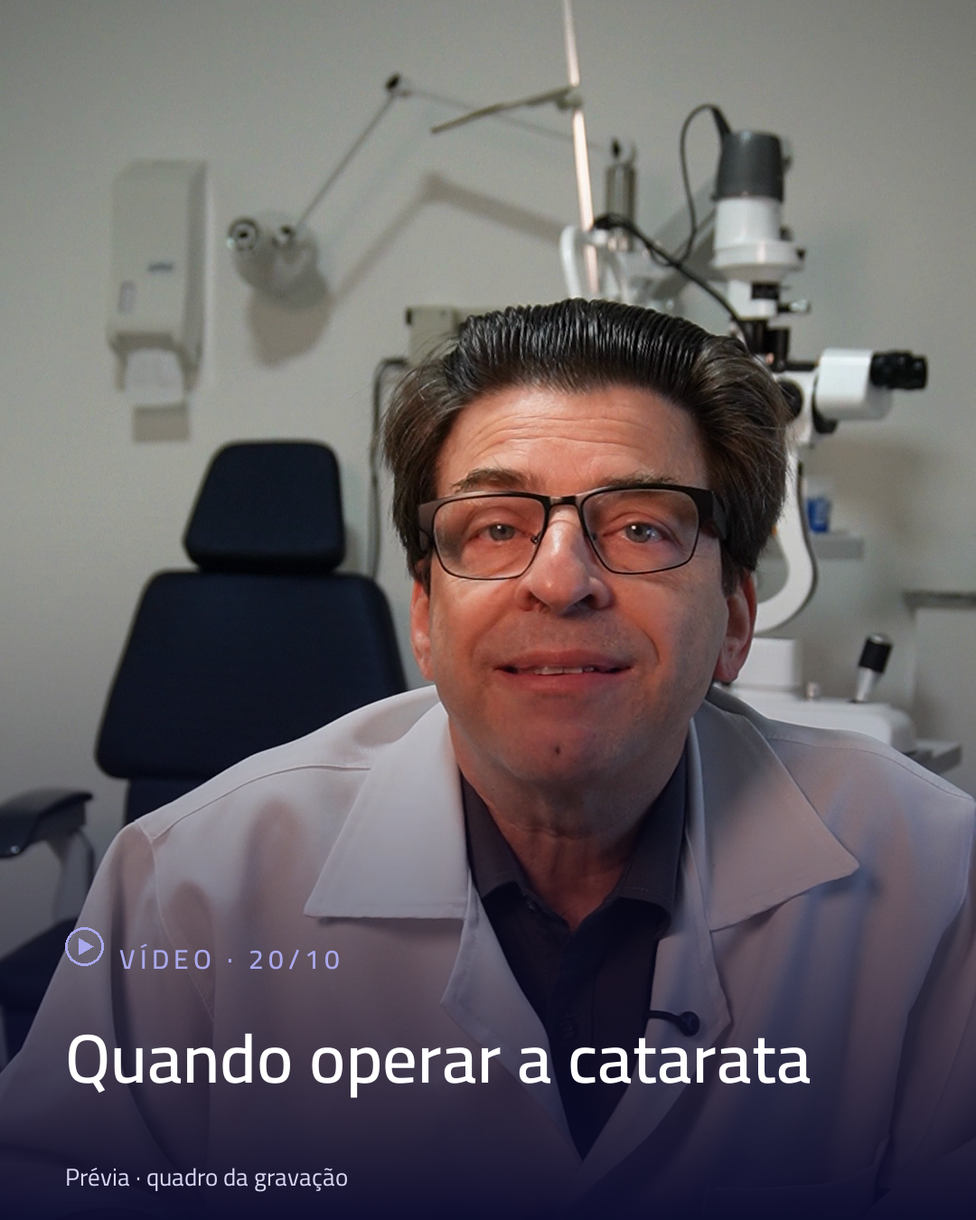
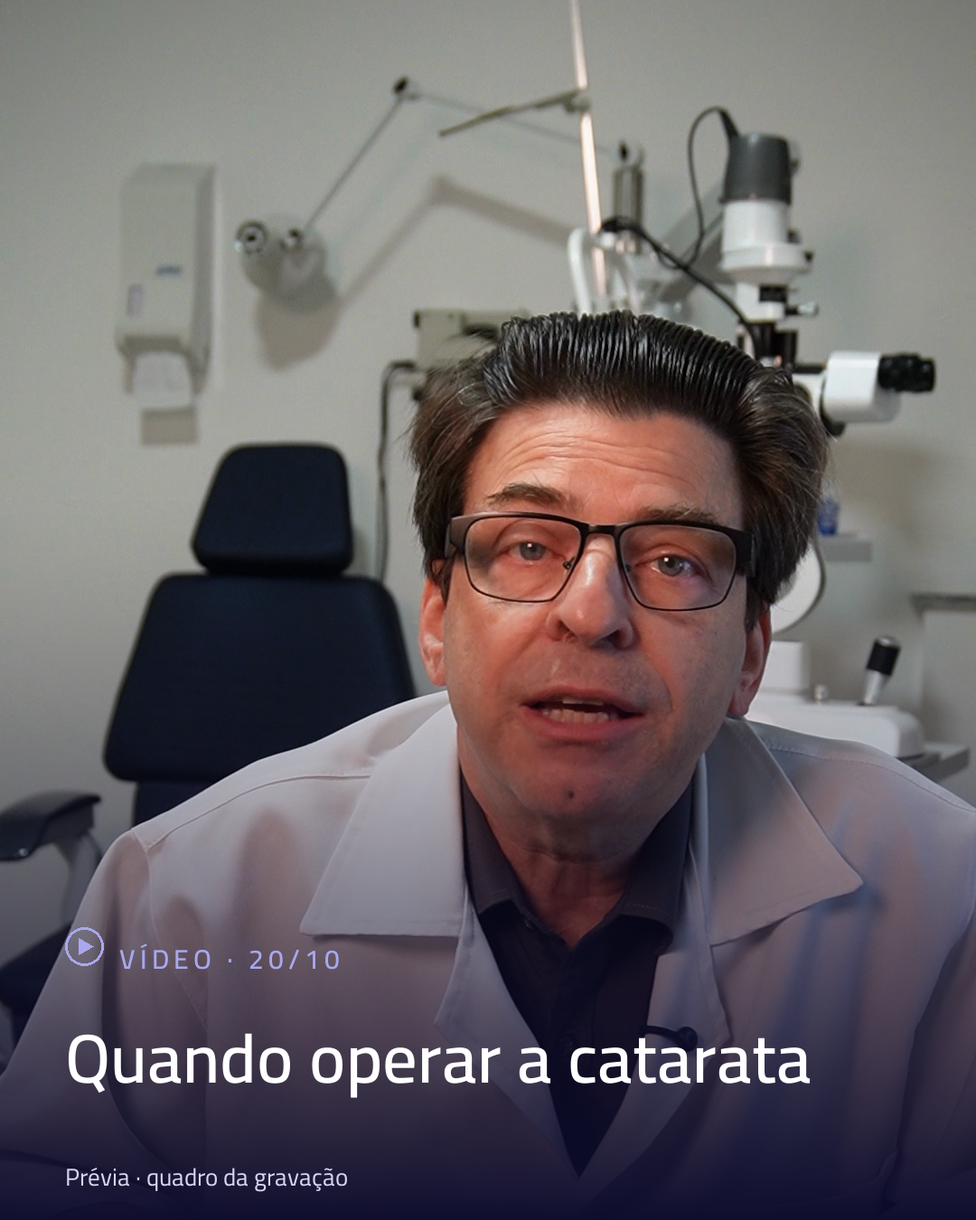
Calendário remontado com as 7 gravações: 11 peças até 12/11
As quatro gravações que faltavam fecharam a série de catarata em cinco temas:
o que é, quando operar, como é feita a cirurgia, pós-operatório e tipos de
lente. Dois temas tinham dois takes; ficou registrado qual usar e por quê.

O calendário vai de 15/10 a 12/11, alternando vídeo e card, com o convite de
fechamento por último. Cada vídeo ganhou prévia a partir de um quadro da
gravação.

Duas ressalvas de compliance ficaram anotadas na peça: a promessa de resultado
a cortar no vídeo da cirurgia e o fecho obrigatório no de lentes.

diff --git a/calendario-editorial/outubro-2026/index.html b/calendario-editorial/outubro-2026/index.html
@@ -5,13 +5,13 @@
 <a class="skip" href="#conteudos">Ir para conteúdos</a>
 <nav class="nav" aria-label="Navegação principal"><a href="#hero" aria-label="Oftalmos Day Hospital, início"><img src="assets/logo-oftalmos.png" alt="Oftalmos Day Hospital"></a><div class="nav-links" id="menu"><a href="#feed">Feed</a><a href="#estrategia">Linha editorial</a><a href="#calendario">Calendário</a><a href="#conteudos">Conteúdos</a></div><span class="nav-tag">Planejamento · 2026</span><button class="nav-burger" aria-label="Abrir menu" aria-expanded="false" aria-controls="menu"><span></span><span></span><span></span></button></nav>
 <main>
-<section id="hero"><div class="container hero-grid"><div class="hero-copy"><span class="eyebrow">PLANEJAMENTO EDITORIAL</span><h1>O cuidado<br>com os olhos,<br><em>explicado.</em></h1><p class="sub">O conteúdo do Oftalmos Day Hospital em outubro e novembro: a série de catarata gravada com o Dr. João, os cards de especialidades e prevenção, e o convite de fechamento.</p><div class="period"><span class="period-line"></span>09 OUT — 05 NOV 2026</div><div class="meta"><div class="meta-item"><span>09</span><span>Conteúdos no calendário</span></div><div class="meta-item"><span>05</span><span>Cards · todos com arte</span></div><div class="meta-item"><span>04</span><span>Vídeos · 1 pronto</span></div></div><a class="cta-final" href="#calendario">Explorar o calendário <span aria-hidden="true">↗</span></a></div><div class="hero-art"><div class="orb" aria-hidden="true"></div><button class="hero-preview" data-lightbox="I1" aria-label="Ampliar arte sobre as especialidades do hospital"><img src="assets/2026-10-16_I1_final.png" alt="Card: Diferentes especialidades para cuidar da sua visão, em um só lugar." width="1080" height="1350"></button><span class="art-caption"><span class="status-dot"></span>16/10 · Especialidades · arte final</span></div></div></section>
-<div class="month-bar"><div class="container month-inner"><span class="month-label">PLANEJAMENTO 2026</span><div class="month-options" role="group" aria-label="Escolher período"><button data-month="10" aria-pressed="false">Outubro <span>07</span></button><button data-month="11" aria-pressed="false">Novembro <span>02</span></button><button class="active" data-month="all" aria-pressed="true">Todo o período <span>09</span></button></div></div></div>
+<section id="hero"><div class="container hero-grid"><div class="hero-copy"><span class="eyebrow">PLANEJAMENTO EDITORIAL</span><h1>O cuidado<br>com os olhos,<br><em>explicado.</em></h1><p class="sub">O conteúdo do Oftalmos Day Hospital em outubro e novembro: a série de catarata gravada com o Dr. João, os cards de especialidades e prevenção, e o convite de fechamento.</p><div class="period"><span class="period-line"></span>09 OUT — 12 NOV 2026</div><div class="meta"><div class="meta-item"><span>11</span><span>Conteúdos no calendário</span></div><div class="meta-item"><span>05</span><span>Cards · todos com arte</span></div><div class="meta-item"><span>06</span><span>Vídeos · 1 editado</span></div></div><a class="cta-final" href="#calendario">Explorar o calendário <span aria-hidden="true">↗</span></a></div><div class="hero-art"><div class="orb" aria-hidden="true"></div><button class="hero-preview" data-lightbox="I1" aria-label="Ampliar arte sobre as especialidades do hospital"><img src="assets/2026-10-16_I1_final.png" alt="Card: Diferentes especialidades para cuidar da sua visão, em um só lugar." width="1080" height="1350"></button><span class="art-caption"><span class="status-dot"></span>16/10 · Especialidades · arte final</span></div></div></section>
+<div class="month-bar"><div class="container month-inner"><span class="month-label">PLANEJAMENTO 2026</span><div class="month-options" role="group" aria-label="Escolher período"><button data-month="10" aria-pressed="false">Outubro <span>07</span></button><button data-month="11" aria-pressed="false">Novembro <span>04</span></button><button class="active" data-month="all" aria-pressed="true">Todo o período <span>11</span></button></div></div></div>
 <section id="feed"><div class="container"><div class="phone"><div class="phone-hd"><span class="uname">Oftalmos Day Hospital</span><span class="preview-label">Prévia de composição</span></div><div class="phone-bio"><img src="assets/logo-oftalmos.png" alt="Oftalmos Day Hospital" width="150"><div class="nm">Oftalmos Day Hospital</div><div class="sp">Hospital de olhos · Piracicaba/SP</div></div><div class="pgrid" id="feed-grid"></div><div class="phone-note">Mais recente no topo · vídeos representados pelo tema</div></div><div class="feed-side"><div class="section-head"><span class="label">Visão do conjunto</span><h2>Como o feed<br>vai ficar.</h2><p>Artes finais e vídeos organizados pela data planejada de publicação.</p></div><div class="feed-legend"><div class="fl-item"><span class="fl-dot" style="background:#211C6B"></span><span><strong>Cards com arte</strong> · prontos para publicar</span></div><div class="fl-item"><span class="fl-dot" style="background:#7A79E3"></span><span><strong>Vídeos</strong> · série de catarata e Novembro Azul</span></div></div><div class="cta-box"><div class="lbl">O próximo passo</div><strong>Falar com a equipe e agendar uma avaliação.</strong><small>Os conteúdos informam e convidam ao cuidado, respeitando a avaliação individual de cada caso.</small></div><p class="feed-help">Selecione uma peça para ver a arte ou abrir sua copy e roteiro.</p></div></div></section>
-<section id="estrategia"><div class="container"><div class="section-head"><span class="label">Linha editorial</span><h2>Explicar. Aproximar.<br>Convidar ao cuidado.</h2><p>Quatro frentes organizam os conteúdos do período.</p></div><div class="pillars"><article class="pillar"><div class="p-num">01</div><h3>Catarata explicada</h3><p class="desc">O Dr. João responde, em sequência, as dúvidas que o paciente traz para o consultório.</p><span class="pillar-ref">14/10 · O que é a catarata<br>20/10 · Quando operar<br>27/10 · Tipos de lente</span></article><article class="pillar"><div class="p-num">02</div><h3>Especialidades e estrutura</h3><p class="desc">Mostrar as frentes de cuidado reunidas no hospital e o atendimento em cada fase da vida.</p><span class="pillar-ref">16/10 · Especialidades<br>22/10 · Todas as fases da vida</span></article><article class="pillar"><div class="p-num">03</div><h3>Prevenção e rotina</h3><p class="desc">Reforçar que o exame em dia identifica alterações antes de aparecerem sintomas.</p><span class="pillar-ref">29/10 · Exame de retina de rotina<br>03/11 · Diabetes e a retina</span></article><article class="pillar"><div class="p-num">04</div><h3>Convite ao cuidado</h3><p class="desc">Abrir e fechar o período com peças institucionais que convidam ao contato.</p><span class="pillar-ref">09/10 · Dia Mundial da Visão · publicado<br>05/11 · Convite de fechamento</span></article></div></div></section>
-<section id="calendario"><div class="container"><div class="section-head"><span class="label">Datas do planejamento</span><h2>Calendário editorial.</h2><p>Esta semana as publicações saem na quarta e na sexta. A partir de 19/10, terça e quinta. Selecione uma publicação para abrir seu conteúdo completo.</p></div><div id="calendar-grid"></div><div class="calendar-legend"><span><i class="status-dot"></i>Card com arte</span><span><i class="video-dot"></i>Vídeo</span></div></div></section>
-<section id="conteudos"><div class="container"><div class="section-head"><span class="label">Peça por peça</span><h2 id="content-heading">9 publicações · Todo o período</h2><p>Confira as artes, as copys, as legendas e os roteiros do período.</p></div><div class="filter-bar" role="group" aria-label="Filtrar por formato"><button class="filter-btn active" data-format="todos" aria-pressed="true">Todos <span class="filter-count" id="count-all">9</span></button><button class="filter-btn" data-format="card" aria-pressed="false">Cards <span class="filter-count" id="count-card">5</span></button><button class="filter-btn" data-format="reel" aria-pressed="false">Vídeos <span class="filter-count" id="count-reel">4</span></button></div><div class="posts-grid" id="post-grid"></div></div></section>
-<section id="resumo"><div class="container"><span class="eyebrow">OUTUBRO E NOVEMBRO · 2026</span><h2 class="closing">O planejamento reunido.<br><em>O conteúdo pronto para usar.</em></h2><p class="summary-text">Os cinco cards do período estão com arte final: o de 09/10, já publicado, e os quatro de 16/10 a 05/11. A série de catarata gravada com o Dr. João tem o primeiro vídeo pronto para 14/10 e mais dois gravados. Falta produzir o vídeo de Novembro Azul, em 03/11.</p><a class="cta-final" href="assets/cards-oftalmos-day.zip" download>Baixar os 5 cards do calendário <span aria-hidden="true">↓</span></a><div class="foot"><img src="assets/logo-oftalmos.png" alt="Oftalmos Day Hospital"><p>Oftalmos Day Hospital · Piracicaba/SP<br>Produção: Eye Consult · 2026</p><a href="#hero">Voltar ao início ↑</a></div></div></section>
+<section id="estrategia"><div class="container"><div class="section-head"><span class="label">Linha editorial</span><h2>Explicar. Aproximar.<br>Convidar ao cuidado.</h2><p>Quatro frentes organizam os conteúdos do período.</p></div><div class="pillars"><article class="pillar"><div class="p-num">01</div><h3>Catarata explicada</h3><p class="desc">O Dr. João responde, em sequência, as dúvidas que o paciente traz para o consultório.</p><span class="pillar-ref">15/10 · O que é a catarata<br>20/10 · Quando operar<br>27/10 · Como é feita a cirurgia<br>05/11 · Pós-operatório<br>10/11 · Tipos de lente</span></article><article class="pillar"><div class="p-num">02</div><h3>Especialidades e estrutura</h3><p class="desc">Mostrar as frentes de cuidado reunidas no hospital e o atendimento em cada fase da vida.</p><span class="pillar-ref">16/10 · Especialidades<br>22/10 · Todas as fases da vida</span></article><article class="pillar"><div class="p-num">03</div><h3>Prevenção e rotina</h3><p class="desc">Reforçar que o exame em dia identifica alterações antes de aparecerem sintomas.</p><span class="pillar-ref">29/10 · Exame de retina de rotina<br>03/11 · Diabetes e a retina</span></article><article class="pillar"><div class="p-num">04</div><h3>Convite ao cuidado</h3><p class="desc">Abrir e fechar o período com peças institucionais que convidam ao contato.</p><span class="pillar-ref">09/10 · Dia Mundial da Visão · publicado<br>12/11 · Convite de fechamento</span></article></div></div></section>
+<section id="calendario"><div class="container"><div class="section-head"><span class="label">Datas do planejamento</span><h2>Calendário editorial.</h2><p>Esta semana as publicações saem na quinta e na sexta. A partir de 19/10, terça e quinta. Selecione uma publicação para abrir seu conteúdo completo.</p></div><div id="calendar-grid"></div><div class="calendar-legend"><span><i class="status-dot"></i>Card com arte</span><span><i class="video-dot"></i>Vídeo</span></div></div></section>
+<section id="conteudos"><div class="container"><div class="section-head"><span class="label">Peça por peça</span><h2 id="content-heading">11 publicações · Todo o período</h2><p>Confira as artes, as copys, as legendas e os roteiros do período.</p></div><div class="filter-bar" role="group" aria-label="Filtrar por formato"><button class="filter-btn active" data-format="todos" aria-pressed="true">Todos <span class="filter-count" id="count-all">11</span></button><button class="filter-btn" data-format="card" aria-pressed="false">Cards <span class="filter-count" id="count-card">5</span></button><button class="filter-btn" data-format="reel" aria-pressed="false">Vídeos <span class="filter-count" id="count-reel">6</span></button></div><div class="posts-grid" id="post-grid"></div></div></section>
+<section id="resumo"><div class="container"><span class="eyebrow">OUTUBRO E NOVEMBRO · 2026</span><h2 class="closing">O planejamento reunido.<br><em>O conteúdo pronto para usar.</em></h2><p class="summary-text">Os cinco cards do período estão com arte final. A série de catarata gravada com o Dr. João tem cinco temas: o primeiro já editado, para 15/10, e os outros quatro gravados, a editar. Falta produzir o vídeo de Novembro Azul, em 03/11.</p><a class="cta-final" href="assets/cards-oftalmos-day.zip" download>Baixar os 5 cards do calendário <span aria-hidden="true">↓</span></a><div class="foot"><img src="assets/logo-oftalmos.png" alt="Oftalmos Day Hospital"><p>Oftalmos Day Hospital · Piracicaba/SP<br>Produção: Eye Consult · 2026</p><a href="#hero">Voltar ao início ↑</a></div></div></section>
 </main>
 <dialog id="lightbox" aria-label="Arte ampliada"><div class="dialog-head"><span id="lightbox-title"></span><button id="close-lightbox" aria-label="Fechar imagem">✕</button></div><img id="lightbox-image" alt=""><a id="lightbox-download" download>Baixar arte ↓</a></dialog><div id="toast" role="status" aria-live="polite"></div><noscript><p>Ative o JavaScript para explorar o calendário. <a href="assets/cards-oftalmos-day.zip">Baixar os cards.</a></p></noscript>
 </body></html>

diff --git a/calendario-editorial/outubro-2026/assets/conteudos.js b/calendario-editorial/outubro-2026/assets/conteudos.js
@@ -16,19 +16,19 @@ window.OFTALMOS_POSTS = [
   },
   {
     "id": "JB1",
-    "date": "2026-10-14",
+    "date": "2026-10-15",
     "title": "O que é a catarata",
     "type": "Vídeo · Dr. João",
     "format": "reel",
     "pillar": "Catarata explicada",
-    "status": "Vídeo editado e pronto para publicação",
+    "status": "Editado · publicação em 15/10",
     "objective": "Série de catarata gravada pelo Dr. João Braulio de Oliveira, na ordem natural da dúvida do paciente.",
-    "script": "O que é a catarata? Catarata é uma lente de dentro do nosso olho que ao longo da vida vai perdendo a sua transparência. Ela vai deixando de ser uma vidraça limpinha de transparência perfeita e vai se tornando igual ao vidro do carro quando está chovendo, um pouco embaçado. Isso é um processo natural, é o envelhecimento da gente. Uma comparação bem simplória é como o cabelo branco da gente. Com o passar da idade a gente passa a ter o cabelo branco. O cristalino vai perdendo sua transparência e com isso a imagem vai perdendo sua qualidade e após perder a qualidade vai perdendo a quantidade de visão e começa então a atrapalhar atividades que as pessoas gostam de fazer no dia a dia. Aí vai chegando o momento em que passa a ser necessário operar a catarata. Eu sou o Dr. João Braulio de Oliveira do Ficalmus Day Hospital.",
+    "script": "O que é a catarata? Catarata é uma lente de dentro do nosso olho, que ao longo da vida vai perdendo a sua transparência. Ela vai deixando de ser uma vidraça limpinha de transparência perfeita e vai se tornando igual ao vidro do carro quando está chovendo, um pouco embaçado. Isso é um processo natural, é o envelhecimento da gente. Uma comparação bem simplória é como o cabelo branco da gente, com o passar da idade a gente passa a ter o cabelo branco. O cristalino vai perdendo sua transparência e com isso a imagem vai perdendo sua qualidade. E após perder a qualidade vai perdendo a quantidade de visão e começa então a atrapalhar atividades que as pessoas gostam de fazer no dia a dia. Aí vai chegando o momento em que passa a ser necessário operar a catarata. Eu sou o Doutor João Braulio de Oliveira do Ofitalmos Day Hospital.",
     "caption": "",
     "notice": "Gravação real com o médico. Não se aplica o aviso de conteúdo gerado por IA.",
     "visual": "Médico falando direto para a câmera, vertical.",
-    "thumb": "assets/2026-10-14_JB1_thumb.png",
-    "thumb_nota": "Prévia montada a partir de um quadro da gravação. Não é a arte final do vídeo."
+    "thumb": "assets/2026-10-15_JB1_thumb.png",
+    "thumb_nota": "Prévia montada a partir de um quadro da própria gravação. Não é a arte final do vídeo."
   },
   {
     "id": "I1",
@@ -51,14 +51,14 @@ window.OFTALMOS_POSTS = [
     "type": "Vídeo · Dr. João",
     "format": "reel",
     "pillar": "Catarata explicada",
-    "status": "Material bruto gravado · edição pendente",
+    "status": "Bruto, a editar",
     "objective": "Série de catarata gravada pelo Dr. João Braulio de Oliveira, na ordem natural da dúvida do paciente.",
-    "script": "Será que eu preciso operar a catarata? Essa é a pergunta que os pacientes nos fazem. Isso depende do dia a dia do paciente, de suas necessidades. Não existe pressa em ter que operar a catarata para ontem, de imediato. A catarata, a gente escolhe a data, a época de operar e acaba sendo oportuno operar quando ela começa a atrapalhar as atividades diárias do paciente. Tem desde o paciente que já está aposentado em casa, com poucas necessidades em dirigir e ler, até o paciente que está em plena vida ativa, dirigindo, lendo contratos, precisando de uma visão perfeita para desempenhar sua provisão. Então a gente deixa para operar a catarata quando o paciente sente que as atividades que gosta de fazer estão mais difíceis. Eu sou João Braulio de Oliveira do Oftalmos Day Hospital. Eu sou Dr. João Braulio de Oliveira do Oftalmos Day Hospital.",
+    "script": "Será que eu preciso operar a catarata? Essa é a pergunta que os pacientes nos fazem. A cirurgia de catarata é a única solução efetiva do problema da catarata. Todo mundo vai acabar operando a catarata. Mas quando? Existe pressa, uma correria? Não. Você vai operar a catarata quando ela estiver atrapalhando para que você aponte as atividades suas do dia a dia, as coisas que você gosta de fazer. Isso pode ser um pouco mais cedo, se você está em plena atividade profissional, tendo que dirigir o carro, ler contratos, coisas muito especiais. Agora, se você já está mais aposentado, mais quieto em casa, as necessidades são outras. Você acaba postergando, às vezes, a data de operar a catarata. Então, operamos a catarata de acordo com as necessidades do dia a dia do paciente. Eu sou o doutor João Braulio de Oliveira, do Fitalmus Day Hospital. O tempo deu?",
     "caption": "",
     "notice": "Gravação real com o médico. Não se aplica o aviso de conteúdo gerado por IA.",
     "visual": "Médico falando direto para a câmera, vertical.",
     "thumb": "assets/2026-10-20_JB2_thumb.png",
-    "thumb_nota": "Prévia montada a partir de um quadro da gravação. Não é a arte final do vídeo."
+    "thumb_nota": "Prévia montada a partir de um quadro da própria gravação. Não é a arte final do vídeo."
   },
   {
     "id": "I2",
@@ -77,18 +77,19 @@ window.OFTALMOS_POSTS = [
   {
     "id": "JB3",
     "date": "2026-10-27",
-    "title": "Tipos de lente intraocular",
+    "title": "Como é feita a cirurgia de catarata",
     "type": "Vídeo · Dr. João",
     "format": "reel",
     "pillar": "Catarata explicada",
-    "status": "Material bruto gravado · edição pendente",
+    "status": "Bruto, a editar",
     "objective": "Série de catarata gravada pelo Dr. João Braulio de Oliveira, na ordem natural da dúvida do paciente.",
-    "script": "o que são lentes introculares. Nas cirurgias de catarata, sempre colocamos no olho uma lente introcular para substituir o mesmo papel que antigamente era feito pelo cristalino. Existem muitos tipos e muitas marcas de lentes introculares, mas num resumo a gente diria que as lentes são do tipo monofocais ou do tipo multifocais. São dois grandes grupos. Dentro das lentes monofocais a gente tem as lentes tóricas e as lentes não tóricas. As lentes tóricas são para aqueles pacientes que possuem astigmatismo alto e querem corrigir só sua miopia, mas também o astigmatismo. As lentes não tóricas são para as pessoas que não têm astigmatismo. Já as lentes multifocais, elas são lentes principalmente de dois grandes grupos. As lentes de foco estendido são para pessoas que querem ter a visão de longe e a visão de meia distância. Como alguém que está dirigindo o carro, quer ver bem a pista e quer ver também o painel do carro. E tem as lentes trifocais, que são para pessoas que não querem mais usar óculos em nenhuma situação. Então elas dão visão boa para longe, para meia distância e para aberto. São as lentes trifocais. Sempre haverá a necessidade do seu médico conversar e avaliar o seu caso para decidir qual tipo de lente será utilizada. Eu sou o doutor João Braulio de Oliveira do oftalmos de hospital.",
+    "script": "Como é feita a cirurgia da catarata? Hoje em dia, a cirurgia de catarata é bastante moderna, é bastante rápida e os pacientes não guardam uma lembrança ruim do seu dia da cirurgia. É uma cirurgia feita com anestesia local, que são gotinhas de colírio, a pessoa sai do centro cirúrgico após 10 minutos de cirurgia, mas já sai em condições até de ir para casa. Ela permanece conosco por 20, 30 minutos para a gente observar se tudo está em ordem, e então já se dirige para sua casa, não precisa dormir no hospital. Então é uma cirurgia bem prática e que dá um resultado já de imediato, o dia seguinte já tem uma boa visão. Eu sou o doutor João Braulio de Oliveira do oftalmos de hospital.",
     "caption": "",
     "notice": "Gravação real com o médico. Não se aplica o aviso de conteúdo gerado por IA.",
     "visual": "Médico falando direto para a câmera, vertical.",
     "thumb": "assets/2026-10-27_JB3_thumb.png",
-    "thumb_nota": "Prévia montada a partir de um quadro da gravação. Não é a arte final do vídeo."
+    "thumb_nota": "Prévia montada a partir de um quadro da própria gravação. Não é a arte final do vídeo.",
+    "compliance": "PROIBIDO manter 'dá um resultado já de imediato, o dia seguinte já tem uma boa visão' (46s). Promessa de resultado, vedada pela CFM 2.336/2023. Cortar na edição e não repetir na legenda."
   },
   {
     "id": "I3",
@@ -126,8 +127,41 @@ window.OFTALMOS_POSTS = [
     "visual": "Avatar com expressão atenta, fundo neutro.; Simulação de IA de vasos da retina afetados.; Avatar explicando.; Tipografia sobre fundo da marca, ícone de Novembro Azul.; Logo Oftalmos Day Hospital centralizado."
   },
   {
-    "id": "I4",
+    "id": "JB4",
+    "type": "Vídeo · Dr. João",
+    "format": "reel",
+    "pillar": "Catarata explicada",
+    "objective": "Série de catarata gravada pelo Dr. João Braulio de Oliveira, na ordem natural da dúvida do paciente.",
+    "caption": "",
+    "notice": "Gravação real com o médico. Não se aplica o aviso de conteúdo gerado por IA.",
+    "visual": "Médico falando direto para a câmera, vertical.",
     "date": "2026-11-05",
+    "title": "Pós-operatório da cirurgia de catarata",
+    "status": "Bruto, a editar",
+    "script": "Como é o pós-operatório da cirurgia de catarata? O pós-operatório da cirurgia de catarata é bastante simples. No dia da cirurgia, após 20, 30 minutos da cirurgia, a pessoa já terá condições de ir para casa, só que é acompanhada do familiar, ela não pode dirigir o carro nesse retorno para sua casa. Já na semana seguinte à cirurgia, o próprio paciente já poderá vir dirigindo o carro, já terá condições para isso e uma visão adequada para isso. Então é uma recuperação rápida, deve-se apenas evitar esforços físicos muito intensos nos primeiros 15 dias após a cirurgia, para que isso não atrapalhe o processo de cicatrização da incisão da cirurgia. Eu sou o doutor João Braulio de Oliveira, do Fitalmos D.I. Hospital.",
+    "thumb": "assets/2026-11-05_JB4_thumb.png",
+    "thumb_nota": "Prévia montada a partir de um quadro da própria gravação. Não é a arte final do vídeo."
+  },
+  {
+    "id": "JB5",
+    "type": "Vídeo · Dr. João",
+    "format": "reel",
+    "pillar": "Catarata explicada",
+    "objective": "Série de catarata gravada pelo Dr. João Braulio de Oliveira, na ordem natural da dúvida do paciente.",
+    "caption": "",
+    "notice": "Gravação real com o médico. Não se aplica o aviso de conteúdo gerado por IA.",
+    "visual": "Médico falando direto para a câmera, vertical.",
+    "date": "2026-11-10",
+    "title": "Tipos de lente intraocular",
+    "status": "Bruto, a editar",
+    "script": "o que são lentes introculares. Nas cirurgias de catarata, sempre colocamos no olho uma lente introcular para substituir o mesmo papel que antigamente era feito pelo cristalino. Existem muitos tipos e muitas marcas de lentes introculares, mas num resumo a gente diria que as lentes são do tipo monofocais ou do tipo multifocais. São dois grandes grupos. Dentro das lentes monofocais a gente tem as lentes tóricas e as lentes não tóricas. As lentes tóricas são para aqueles pacientes que possuem astigmatismo alto e querem corrigir só sua miopia, mas também o astigmatismo. As lentes não tóricas são para as pessoas que não têm astigmatismo. Já as lentes multifocais, elas são lentes principalmente de dois grandes grupos. As lentes de foco estendido são para pessoas que querem ter a visão de longe e a visão de meia distância. Como alguém que está dirigindo o carro, quer ver bem a pista e quer ver também o painel do carro. E tem as lentes trifocais, que são para pessoas que não querem mais usar óculos em nenhuma situação. Então elas dão visão boa para longe, para meia distância e para aberto. São as lentes trifocais. Sempre haverá a necessidade do seu médico conversar e avaliar o seu caso para decidir qual tipo de lente será utilizada. Eu sou o doutor João Braulio de Oliveira do oftalmos de hospital.",
+    "thumb": "assets/2026-11-10_JB5_thumb.png",
+    "thumb_nota": "Prévia montada a partir de um quadro da própria gravação. Não é a arte final do vídeo.",
+    "compliance": "Manter obrigatoriamente o fecho: 'Sempre haverá a necessidade do seu médico conversar e avaliar o seu caso para decidir qual tipo de lente será utilizada.'"
+  },
+  {
+    "id": "I4",
+    "date": "2026-11-12",
     "title": "Convite institucional de fechamento",
     "type": "Card de feed",
     "format": "card",
